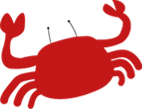
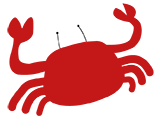
sand Object

Changed region(s): [[0.0, 0.1101, 1.0, 1.0], [0.7042, 0.0, 0.9296, 0.3853], [0.7324, 0.3853, 0.9014, 0.4954]]

diff --git a/src/Styles/sea.css b/src/Styles/sea.css
@@ -1,7 +1,7 @@
 .sea {
   overflow: hidden;
 
-  margin-top : -160px;
+  margin-top: -160px;
   height: 10vw;
   width: 100%;
   min-height: 100px;
@@ -10,57 +10,137 @@
 
 .bottleField {
   position: relative;
-  height: 80%;
-  width: 80%;
-  z-index: 1;
+  height: 90%;
+  width: 90%;
+  z-index: 10;
 }
 
 .sands {
-  height: 1700px;
+  height: 2600px;
   width: 100%;
   background: #e7ce94;
 }
 
-#crab_red {
-  width: 142px;
-  height: 109px;
-  position: relative;
-  z-index: 8;
+#crabRed {
+  width: 156px;
+  height: 120px;
+  top: 150%;
+  left: 15%;
+  position: absolute;
+  z-index: 9;
   background-image: url(../Assets/Images/crab_red_small.png);
 }
 
 #umbrella {
-  top: 520px;
-  left: 500px;
-  width: 515px;
-  height: 395px;
-  background-color: transparent;
+  position: absolute;
+  top: 98%;
+  left: -7%;
+  width: 700px;
+  height: 533px;
+  z-index: 8;
   background-image: url(../Assets/Images/umbrella_small.png);
 }
 
 #starfish {
-  width: 99px;
-  height: 96px;
+  width: 97px;
+  height: 94px;
+  top: 86%;
+  left: 87%;
+  z-index: 8;
+  position: absolute;
   background-image: url(../Assets/Images/starfish_small.png);
 }
 
 #pot {
-  width: 142;
-  height: 109;
-  background-image: url(../Assets/Images/crab_red_small.png);
+  width: 214px;
+  height: 166px;
+  top: 210%;
+  left: 35%;
+  z-index: 9;
+  position: absolute;
+  background-image: url(../Assets/Images/pot_small.png);
 }
 
 #sandcastle {
-  width: 142;
-  height: 109;
-  background-image: url(../Assets/Images/crab_red_small.png);
+  width: 337px;
+  height: 456px;
+  top: 170%;
+  left: 45%;
+  z-index: 8;
+  position: absolute;
+  background-image: url(../Assets/Images/sandcastle_small.png);
 }
 
 #flag {
-  width: 142;
-  height: 109;
-  background-image: url(../Assets/Images/crab_red_small.png);
+  width: 185px;
+  height: 200px;
+  top: 210%;
+  left: 65%;
+  z-index: 8;
+  position: absolute;
+  background-image: url(../Assets/Images/flag_small.png);
 }
+
+#shellRed {
+  position: absolute;
+  z-index: 8;
+  top: 100%;
+  left: 60%;
+  width: 134px;
+  height: 98px;
+  background-image: url(../Assets/Images/shell_red_small.png);
+}
+
+#ball {
+  position: absolute;
+  z-index: 8;
+  width: 292px;
+  height: 234px;
+  top: 280%;
+  left: 70%;
+  background-image: url(../Assets/Images/ball_small.png);
+}
+
+#sandle {
+  position: absolute;
+  z-index: 8;
+  width: 258px;
+  height: 323px;
+  top: 310%;
+  left: 5%;
+  background-image: url(../Assets/Images/sandle_small.png);
+}
+
+#shell1 {
+  position: absolute;
+  z-index: 8;
+  top: 90%;
+  left: 40%;
+  width: 94px;
+  height: 77px;
+  background-image: url(../Assets/Images/shell1_small.png);
+}
+
+#shell2 {
+  position: absolute;
+  z-index: 8;
+  top: 190%;
+  left: 28%;
+  width: 74px;
+  height: 100px;
+  background-image: url(../Assets/Images/shell2_small.png);
+}
+
+#shell3 {
+  position: absolute;
+  z-index: 8;
+  top: 294%;
+  left: 22%;
+  width: 59px;
+  height: 61px;
+  background-image: url(../Assets/Images/shell3_small.png);
+}
+
 .wave {
   position: relative;
 

diff --git a/public/index.html b/public/index.html
@@ -147,21 +147,24 @@
     </div>
     <div class="sands">
       
-      <div id="crab_red"></div>
+      <div id="crabRed"></div>
+      <div id="umbrella"></div>
+      <div id="flag"></div>
+      <div id="pot"></div>
+      <div id="sandcastle"></div>
+      <div id="starfish"></div>
+      <div id="ball"></div>
+      <div id="sandle"></div>
+      <div id="shellRed"></div>
+      <div id="shell1"></div>
+      <div id="shell2"></div>
+      <div id="shell3"></div>
       <div class="bottleField">
-        
+
       </div>
-        
-        <span id="flag"></span>
-        
-        <span id="pot"></span>
-        
-        <span id="sandcastle"></span>
-        
-        <span id="starfish"></span>
-        
-        <span id="umbrella"></span>
+
       </div>
+      
       <button id="infoButton" onclick="infoPopup()"></button>
       <button id="writeButton" onclick="writePopup()"></button>
       <div id="infoPopup" class="hide">

diff --git a/src/sea.js b/src/sea.js
@@ -101,16 +101,19 @@ function spawnBottle() {
         bottle.style.backgroundImage='url("../src/Assets/Images/bottle_base_small.png")';
         bottle.style.height="229px";
         bottle.style.width="77px";
+        bottle.style.zIndex="10";
     }
     else if(bottleskin<0.75){
         bottle.style.backgroundImage='url("../src/Assets/Images/bottle_in sand_2.png")';
         bottle.style.height="111px";
         bottle.style.width="141px";
+        bottle.style.zIndex="10";
     }
     else{
         bottle.style.backgroundImage='url("../src/Assets/Images/bottle_starfish_small.png")';
         bottle.style.height="220px";
         bottle.style.width="77px";
+        bottle.style.zIndex="10";
     }
     
 

diff --git a/src/index.js b/src/index.js
@@ -191,6 +191,6 @@ function closeWritePopup() {
 	const popup4 = document.querySelector('#writePopup');
 	document.getElementById("writeContents").value='';
 	
-	document.getElementById("letterLength").innerHTML='(0/500)';
+	document.getElementById("letterLength").innerHTML='(0/500)'; 
   popup4.classList.add('hide');
 }
